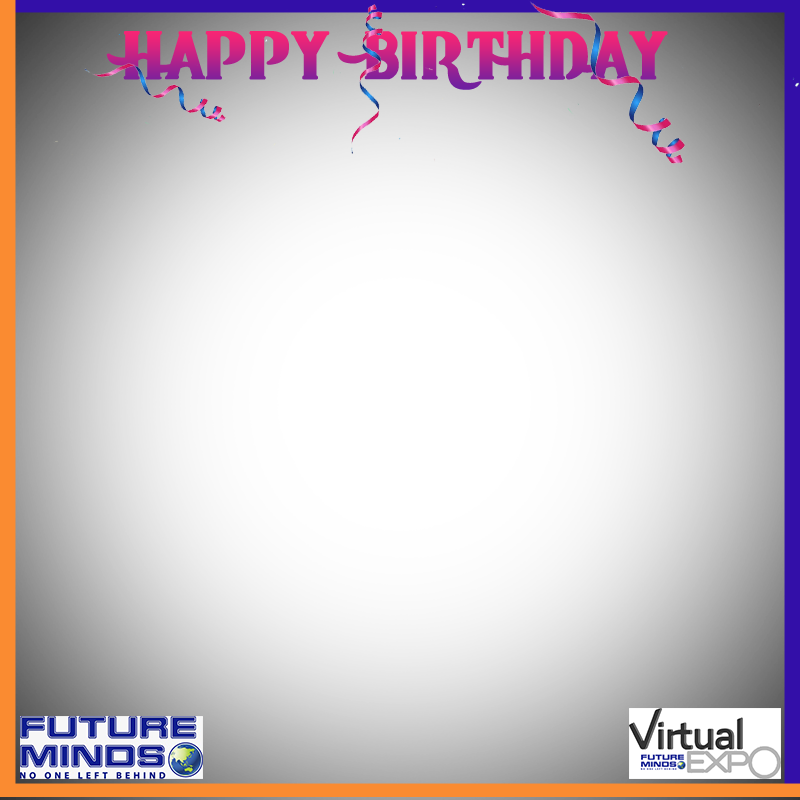
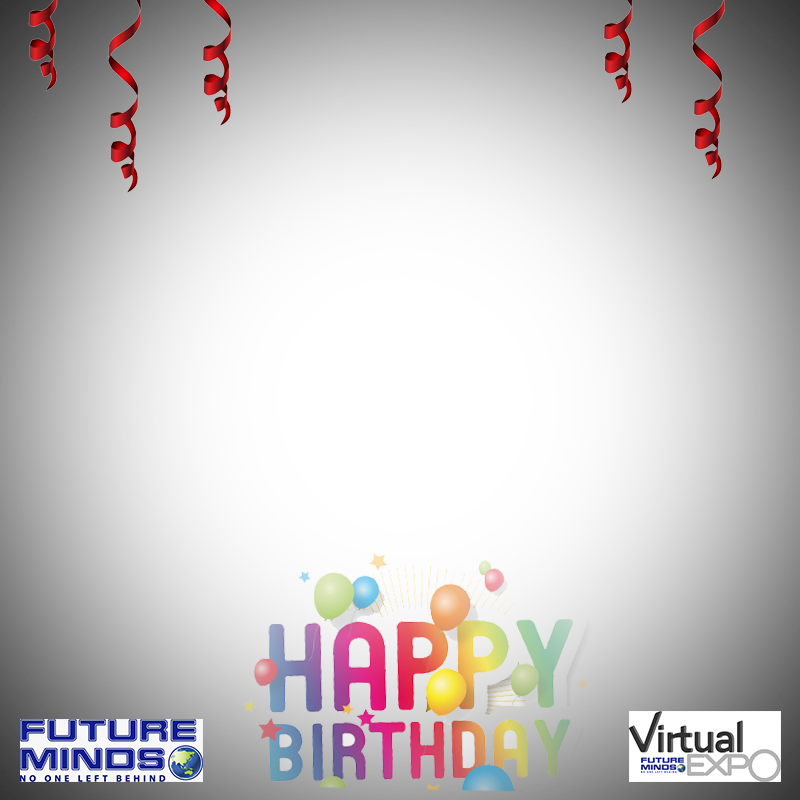
Images added

Changed region(s): [[0.0, 0.0, 1.0, 1.0]]

diff --git a/app.js b/app.js
@@ -38,7 +38,7 @@ window.updatePreview = function(url) {
   document.getElementById("btnSave").onclick = function() {
     document.getElementById("preview2").style.display = "inline-block";
     var imageData = cropper
-      .getCroppedCanvas({ width: 400, height: 400 })
+      .getCroppedCanvas({ width: 600, height: 600 })
       .toDataURL();
     //document.getElementById("profile-pic").src = imageData;
     //console.log(imageData);
@@ -74,6 +74,9 @@ window.onFileChange = function(input) {
 $(document).ready(function() {
   $(".design").on("click", function() {
     $("#fg")
+      .attr("src", $(this).attr("src"))
+      .data("design", $(this).data("design"));
+    $("#fg2")
       .attr("src", $(this).attr("src"))
       .data("design", $(this).data("design"));
     $(".design.active").removeClass("active");

diff --git a/index.html b/index.html
@@ -36,14 +36,14 @@
         <div id="cropped-area">
           <img src="" id="pic">
         </div>
-        <img src="img/dp-fg.png" id="fg" data-design="">
+        <img src="img/dp-fg.png" id="fg2" data-design="">
       </div>
       <p id="afterActions">
         <button id="btnSave" class="btn">Download Picture</button>
       </p>
       <h2>Design</h2>
       <div id="designs">
-        <img class="design active" src="img/dp-fg.png" data-design="">
+        <img class="design active" src="img/dp-fg.png" data-design="0">
         <img class="design" src="img/dp-fg-1.png" data-design="1">
         <img class="design" src="img/dp-fg-2.png" data-design="2">
       </div>

diff --git a/style.css b/style.css
@@ -79,8 +79,8 @@ h1 a[href] {
 #preview2 {
   position: relative;
   display: none;
-  height: 400px;
-  width: 400px;
+  height: 600px;
+  width: 600px;
   background: #fff;
   margin-left: 10px;
 }
@@ -97,6 +97,15 @@ h1 a[href] {
   width: 100%;
 }
 #fg {
+  position: absolute;
+  top: 0;
+  bottom: 0;
+  left: 0;
+  right: 0;
+  z-index: 10;
+}
+#fg2 {
+  width: 100%;
   position: absolute;
   top: 0;
   bottom: 0;
